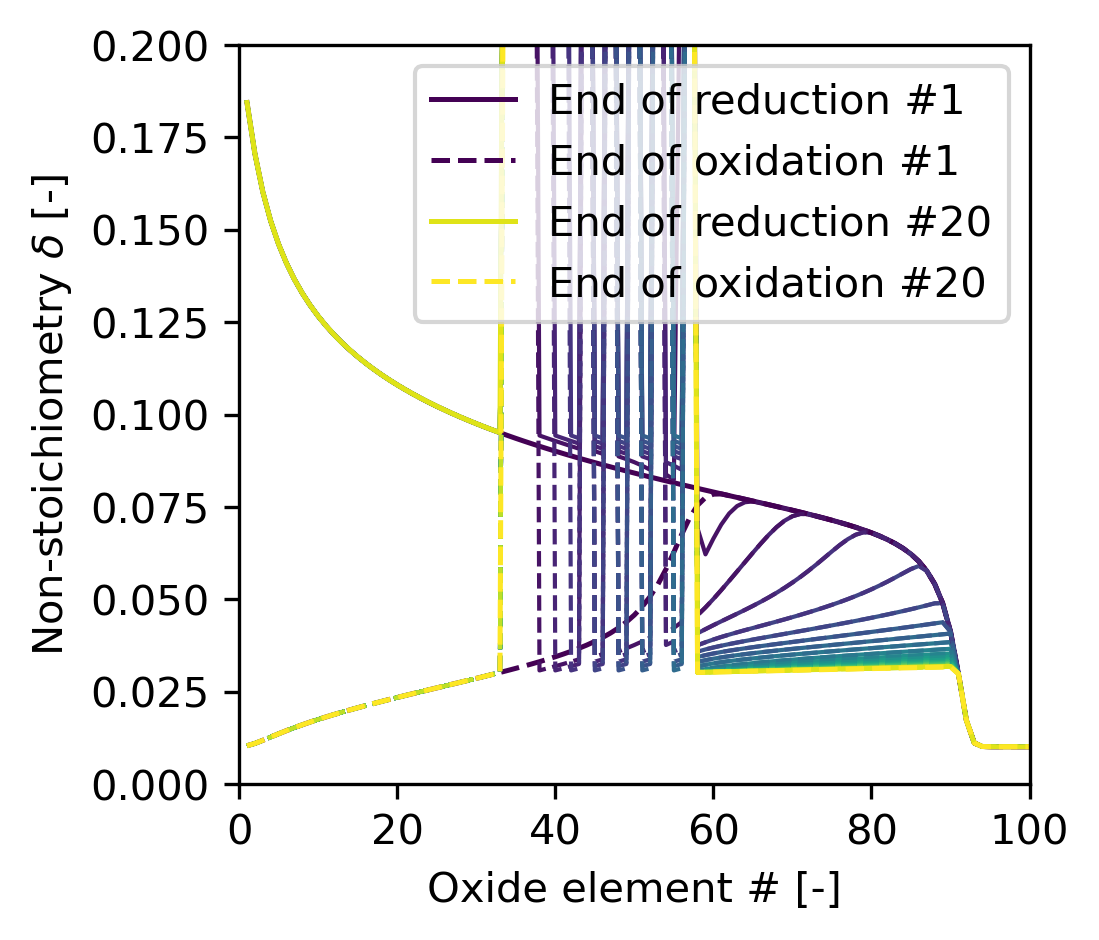
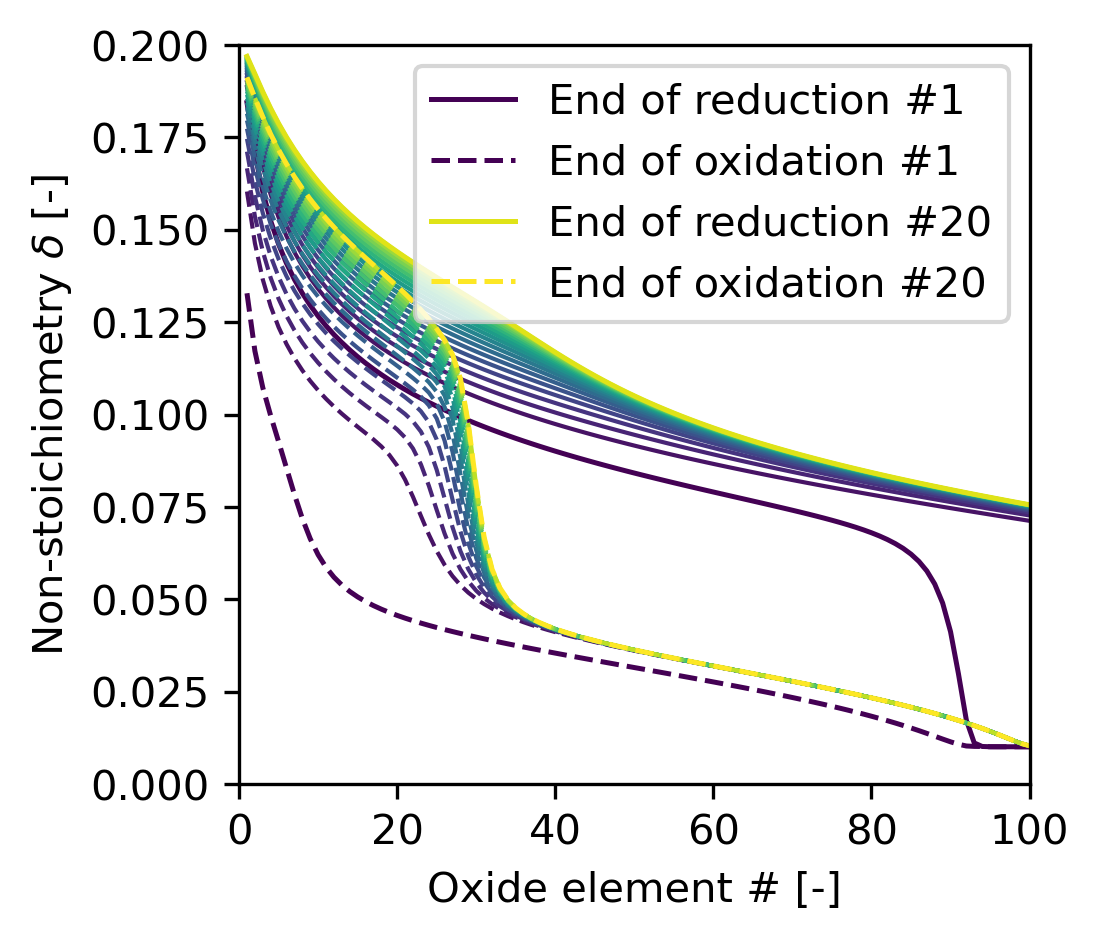
21/09/26

diff --git a/functions/main.py b/functions/main.py
@@ -87,19 +87,32 @@ def simulate_cycle(material, first_cycle,
     delta_t_x_red, x_H2O_t_x_red = compute_reduction_step(
         mu_O_delta_func, mu_O_H2O_func, x_H2O_0,
         delta_t_x_red, x_H2O_t_x_red, d_delta_red, d_X_red,
-        mbf_red, gas_mesh=gas_mesh, oxide_mesh=oxide_mesh
+        mbf_red, reduction=reduction, oxidation=oxidation,
+        gas_mesh=gas_mesh, oxide_mesh=oxide_mesh
     )
 
-    # Use reduction output as the initial condition for oxidation. The
+    # Use the reduction output as the initial condition for oxidation. The
     # oxidation solver handles the flow direction through the `oxidation` flag.
-    delta_t_x_ox[0] = delta_t_x_red[-1]
+    if reduction and oxidation:
+        delta_t_x_ox[0] = delta_t_x_red[-1]
 
-    delta_t_x_ox, x_CO2_t_x_ox = compute_oxidation_step(
-        mu_O_delta_func, mu_O_CO2_func, x_CO2_0, delta_min,
-        delta_t_x_ox, x_CO2_t_x_ox, d_delta_ox, d_X_ox,
-        mbf_ox, oxidation=oxidation, gas_mesh=gas_mesh, oxide_mesh=oxide_mesh
-    )
+        delta_t_x_ox, x_CO2_t_x_ox = compute_oxidation_step(
+            mu_O_delta_func, mu_O_CO2_func, x_CO2_0, delta_min,
+            delta_t_x_ox, x_CO2_t_x_ox, d_delta_ox, d_X_ox,
+            mbf_ox, oxidation=oxidation, gas_mesh=gas_mesh, oxide_mesh=oxide_mesh
+        )
+    elif reduction and not oxidation:
+        # Use reduction output as initial condition for oxidation
+        delta_t_x_ox[0] = delta_t_x_red[-1]
+        delta_t_x_ox[0] = np.flip(delta_t_x_ox[0])
 
+        # Run oxidation simulation
+        delta_t_x_ox, x_CO2_t_x_ox = compute_oxidation_step(
+            mu_O_delta_func, mu_O_CO2_func, x_CO2_0, delta_min,
+            delta_t_x_ox, x_CO2_t_x_ox, d_delta_ox, d_X_ox,
+            mbf_ox, oxidation=oxidation, gas_mesh=gas_mesh, oxide_mesh=oxide_mesh
+        )
+        delta_t_x_ox = np.flip(delta_t_x_ox, axis=1)
     return delta_t_x_red, x_H2O_t_x_red, delta_t_x_ox, x_CO2_t_x_ox
 
 

diff --git a/example_1_simulate_cycle.py b/example_1_simulate_cycle.py
@@ -43,7 +43,7 @@ delta_red, xH2O_red, delta_ox, xCO2_ox = simulate_cycle(
     gas_mesh = gas_mesh,
     oxide_mesh = oxide_mesh, 
     reduction=reduction,
-    oxidation=oxidation
+    oxidation=oxidation,
 )
 
 # === CALCULATE ENERGY AND MASS BALANCE
@@ -99,14 +99,12 @@ def plot_outlet_mole_fraction(x_i_t_x, label, gas_mesh, reduction = True) :
 '''
 
 if reduction and oxidation:
-    plot_delta_profiles(delta_red, 'H$_2$ flow $\\rightarrow$', oxide_mesh, gas_mesh, "Plot for reduction=left oxidation=left")
-    plot_outlet_mole_fraction(xH2O_red, '$x_{H2O}$ out', gas_mesh)
-    plot_delta_profiles(delta_ox, '$\\leftarrow$ CO$_2$ flow', oxide_mesh, gas_mesh, "Plot for reduction=left oxidation=left")
-    plot_outlet_mole_fraction(xCO2_ox, '$x_{CO_2}$ out', gas_mesh, reduction = False)
-elif reduction and not oxidation:
     plot_delta_profiles(delta_red, 'H$_2$ flow $\\rightarrow$', oxide_mesh, gas_mesh, "Plot for reduction=right oxidation=left")
     plot_outlet_mole_fraction(xH2O_red, '$x_{H2O}$ out', gas_mesh)
-    plot_delta_profiles(delta_ox, '$\\rightarrow$ CO$_2$ flow', oxide_mesh, gas_mesh, "Plot for reduction=right oxidation=left")
+    plot_delta_profiles(delta_ox, '$\\leftarrow$ CO$_2$ flow', oxide_mesh, gas_mesh, "Plot for reduction=right oxidation=left")
     plot_outlet_mole_fraction(xCO2_ox, '$x_{CO_2}$ out', gas_mesh, reduction = False)
-
-
+elif reduction and not oxidation:
+    plot_delta_profiles(delta_red, 'H$_2$ flow $\\rightarrow$', oxide_mesh, gas_mesh, "Plot for reduction=right oxidation=right")
+    plot_outlet_mole_fraction(xH2O_red, '$x_{H2O}$ out', gas_mesh)
+    plot_delta_profiles(delta_ox, '$\\rightarrow$ CO$_2$ flow', oxide_mesh, gas_mesh, "Plot for reduction=right oxidation=right")
+    plot_outlet_mole_fraction(xCO2_ox, '$x_{CO_2}$ out', gas_mesh, reduction = False)

diff --git a/functions/mass_balance.py b/functions/mass_balance.py
@@ -27,23 +27,24 @@ def calculate_mass_balance(delta_t_x_red, x_H2O_t_x_red, delta_t_x_ox, x_CO2_t_x
             O_balance_CO_H2O (float): Oxygen mass balance between CO2 and H2 streams.
             O_balance_CO2_oxide (float): Oxygen mass balance between CO2 stream and oxide.
     """
-    # Compute CO2 conversion: inflow - mean outflow at x = 0 (averaged over time)
-    x_CO2_outlet = (x_CO2_t_x_ox.T[0].mean() 
-                    if oxidation
-                     else x_CO2_t_x_ox.T[-1].mean() )
-    X_CO2 = x_CO2_0 - x_CO2_outlet
-
     # Infer H2 consumption from H2O production using the 1:1 H2:H2O stoichiometry.
     x_H2O_outlet = x_H2O_t_x_red.T[-1].mean()
-    n_H2O = (x_H2O_outlet - x_H2O_0) * n_H2
-    X_H2 = n_H2O / n_H2 if n_H2 != 0 else np.nan
+    X_H2 = x_H2O_outlet - x_H2O_0
+    n_H2O = X_H2 * n_H2
 
-    # Change in delta across cycle (reduction to oxidation)
+    # Change in delta across the reduction-to-oxidation endpoints.
     d_delta_material = delta_t_x_red[-1] - delta_t_x_ox[-1]
-    nO_material = d_delta_material.sum() * n_oxide / len(delta_t_x_red[-1])
-
+    nO_material = (d_delta_material.sum() * n_oxide / len(d_delta_material))    
     # Total moles of CO produced
-    n_CO = (x_CO2_0 - x_CO2_outlet) * n_CO2
+    if oxidation:
+        x_CO2_in = x_CO2_t_x_ox[:, -1]
+        x_CO2_out = x_CO2_t_x_ox[:, 0]
+    else:
+        x_CO2_in = x_CO2_t_x_ox[:, 0]
+        x_CO2_out = x_CO2_t_x_ox[:, -1]
+
+    X_CO2 = np.mean(x_CO2_in - x_CO2_out)
+    n_CO = X_CO2 * n_CO2
 
     # Oxygen atom balance comparisons
     O_balance_CO_H2O = n_CO / n_H2O if n_H2O != 0 else np.nan  # gas-to-gas oxygen balance

diff --git a/model_testing/mass_balance_test.py b/model_testing/mass_balance_test.py
@@ -36,7 +36,7 @@ x_CO2_0 = 0.998  # Initial CO2 mole fraction
 x_H2O_0 = 0.005  # Initial H2O mole fraction
 gas_mesh, oxide_mesh = 100, 100 # Discretization
 reduction=True
-oxidation=False
+oxidation=True
 
 # === Initialize storage for plotting variables
 delta_red_end = []
@@ -48,7 +48,7 @@ O_bal_oxide_values = []
 O_bal_oxide_values_red = []
 
 # === Initial state of the oxide bed (uniform delta profile)
-delta_x_0 = np.zeros(100)
+delta_x_0 = np.zeros(oxide_mesh)
 first_cycle = True
 
 # === Run simulation for defined number of cycles
@@ -56,16 +56,13 @@ for cycle in range(cycles):
     tic = time.perf_counter()
 
     # Get previous oxidation profile or initial state
-    if first_cycle:
-        delta_ox_prev = delta_x_0
-    else:
-        delta_ox_prev = delta_t_x_ox[-1]
-
+    delta_ox_prev = delta_x_0
+    
     # Run one redox cycle (reduction followed by oxidation)
     delta_t_x_red, x_H2O_t_x_red, delta_t_x_ox, x_CO2_t_x_ox = simulate_cycle(
         material=material,
-            first_cycle=first_cycle,
-            delta_x_0=delta_x_0,
+            first_cycle=first_cycle,    
+            delta_x_0=delta_ox_prev,    # use previous oxidation profile
             x_CO2_0=x_CO2_0,
             x_H2O_0=x_H2O_0,
             T=T,

diff --git a/functions/discretized_reduction.py b/functions/discretized_reduction.py
@@ -1,3 +1,4 @@
+import numpy as np
 from functions import batch_equilibrium_solver
 
 # Tolerances for stopping criteria
@@ -127,6 +128,7 @@ def reduction_x_t(mu_O_delta_func, mu_O_H2O_func, delta_t_x, x_H2O_t_x,
 
 def compute_reduction_step(mu_O_delta_func, mu_O_H2O_func, x_H2O_0,
                            delta_x_t, x_H2O_x_t, d_delta, d_X, mbf_red,
+                           reduction, oxidation,
                            gas_mesh=100, oxide_mesh=100):
     """
     Execute full reduction step over the reactor grid.
@@ -146,6 +148,9 @@ def compute_reduction_step(mu_O_delta_func, mu_O_H2O_func, x_H2O_0,
     Returns:
         tuple: Updated delta and H2O mole fraction grids.
     """
+    if not oxidation:
+        delta_x_t = np.flip(delta_x_t, axis=1)
+
     delta_x_t[0, 0], x_H2O_x_t[0, 0] = reduction_t0_x0_bc(
         mu_O_delta_func, mu_O_H2O_func, x_H2O_0, delta_x_t[0, 0], d_delta, d_X, mbf_red
     )
@@ -161,4 +166,6 @@ def compute_reduction_step(mu_O_delta_func, mu_O_H2O_func, x_H2O_0,
         mu_O_delta_func, mu_O_H2O_func, delta_x_t, x_H2O_x_t,
         d_delta, d_X, mbf_red, gas_mesh=gas_mesh, oxide_mesh=oxide_mesh
     )
+    if not oxidation:
+        delta_x_t = np.flip(delta_x_t, axis=1)
     return delta_x_t, x_H2O_x_t

diff --git a/Lab_report.md b/Lab_report.md
@@ -259,3 +259,98 @@ To do:
 -   keep fixing `mass_balance_test.py`and `discretizations_test.py`
 
 
+## Week 2 - 21/09
+
+### Monday: 
+Changes done:
+-   `mass_balance_test.py` $\rightarrow$ `l.65`
+-   `mass_balance.py` $\rightarrow$ add debug
+-    on `main.py`:
+```python
+elif reduction and not oxidation:
+        # Use reduction output as initial condition for oxidation
+        delta_t_x_ox[0] = delta_t_x_red[-1]
+        delta_t_x_ox[0] = np.flip(delta_t_x_ox[0])
+
+        # Run oxidation simulation
+        delta_t_x_ox, x_CO2_t_x_ox = compute_oxidation_step(
+            mu_O_delta_func, mu_O_CO2_func, x_CO2_0, delta_min,
+            delta_t_x_ox, x_CO2_t_x_ox, d_delta_ox, d_X_ox,
+            mbf_ox, oxidation=oxidation, gas_mesh=gas_mesh, oxide_mesh=oxide_mesh
+        )
+        delta_t_x_ox = np.flip(delta_t_x_ox, axis=1)
+````
+
+This is the key point:
+-   if in the code: `mass_balance_test.py` first plot comes out ok, 2nd one weird, but `example_1_simulate_cycle.py` 3rd plot is wrong.
+-   if not in the code: both `mass_balance_test.py` plots are wrong but `example_1_simulate_cycle.py` is ok.
+`example_1_simulate_cycle.py`: 1st plot never changes
+$\rightarrow$ `discretized_reduction.py`changed: 
+```python
+if not oxidation:
+        delta_x_t = np.flip(delta_x_t, axis=1)
+```
+$\rightarrow$ the python code (see above with `elif`) has been re-integrated in `main.py`.
+
+
+In `mass_balance_test.py`:
+```python
+reduction=True
+oxidation=False
+```
+```bash
+Cycle 0: solve time 0.61 s,  1.1399222521231989 0.6577807127025062
+Cycle 1: solve time 0.42 s,  1.100526066897315 0.5998404423056906
+Cycle 2: solve time 0.43 s,  1.1255598544231764 0.6003822330810967
+Cycle 3: solve time 0.43 s,  1.1668895066945502 0.5913077001612224
+Cycle 4: solve time 0.44 s,  1.200781251247346 0.6008350446742673
+Cycle 5: solve time 0.45 s,  1.2615542619203983 0.5605336849457493
+Cycle 6: solve time 0.45 s,  1.3228072583076236 0.5674691521576138
+Cycle 7: solve time 0.45 s,  1.3773226032084904 0.5749707575058658
+Cycle 8: solve time 0.45 s,  1.4311021054876147 0.5797209161211284
+Cycle 9: solve time 0.45 s,  1.489554702020823 0.5439469779883672
+Cycle 10: solve time 0.45 s,  1.4973237442238196 0.5646849173349094
+Cycle 11: solve time 0.46 s,  1.5019514016403523 0.5646849173349094
+Cycle 12: solve time 0.46 s,  1.504830142607878 0.5646849173349094
+Cycle 13: solve time 0.45 s,  1.5066822112772678 0.5646849173349094
+Cycle 14: solve time 0.45 s,  1.507912068791415 0.5646849173349094
+Cycle 15: solve time 0.47 s,  1.5087541647611948 0.5646849173349094
+Cycle 16: solve time 0.49 s,  1.5093488120092993 0.5646849173349094
+Cycle 17: solve time 0.46 s,  1.5097799163241254 0.5646849173349094
+Cycle 18: solve time 0.45 s,  1.5101009405161947 0.5646849173349094
+Cycle 19: solve time 0.45 s,  1.5103436682154479 0.5646849173349094
+Final CO2 conversion: 0.9791607030631446
+```
+```python
+reduction=True
+oxidation=True
+```
+```bash
+Cycle 0: solve time 0.64 s,  0.9999999999999547 0.6581657564510776
+Cycle 1: solve time 0.66 s,  0.9999999999999998 0.8311487190808882
+Cycle 2: solve time 0.68 s,  0.9999999999999999 0.9331817509858046
+Cycle 3: solve time 0.66 s,  1.0000000000000004 0.9520834998988955
+Cycle 4: solve time 0.72 s,  1.0 0.962828485552031
+Cycle 5: solve time 0.68 s,  1.0000000000000002 0.9698449293637391
+Cycle 6: solve time 0.68 s,  1.0000000000000002 0.9747739993762063
+Cycle 7: solve time 0.69 s,  1.0000000000000004 0.9784141437944188
+Cycle 8: solve time 0.69 s,  1.0000000000000002 0.9812036168155593
+Cycle 9: solve time 0.68 s,  1.0000000000000002 0.9834056684524024
+Cycle 10: solve time 0.67 s,  1.0000000000000002 0.9851855473781354
+Cycle 11: solve time 0.73 s,  0.9999999999999999 0.9866518385228823
+Cycle 12: solve time 0.67 s,  1.0000000000000004 0.9878804286286709
+Cycle 13: solve time 0.67 s,  0.9999999999999998 0.98892371218233
+Cycle 14: solve time 0.67 s,  1.0000000000000002 0.989820338699021
+Cycle 15: solve time 0.67 s,  1.0000000000000002 0.9905988882867952
+Cycle 16: solve time 0.67 s,  1.0 0.9912805730234865
+Cycle 17: solve time 0.67 s,  1.0 0.9918827274008992
+Cycle 18: solve time 0.67 s,  1.0 0.9924181991283212
+Cycle 19: solve time 0.68 s,  1.0 0.9928972323265887
+Final CO2 conversion: 0.9903496071329413
+```
+
+Changes made in `mass_balance.py` : both plots look more coherent for 
+```python
+reduction=oxidation=True
+```
+even though 2nd plot has oxidation slightly decreasing, but for `oxidation=False`the output is clearly wrong. The oxide and gas values are going further apoart instead of closer.
